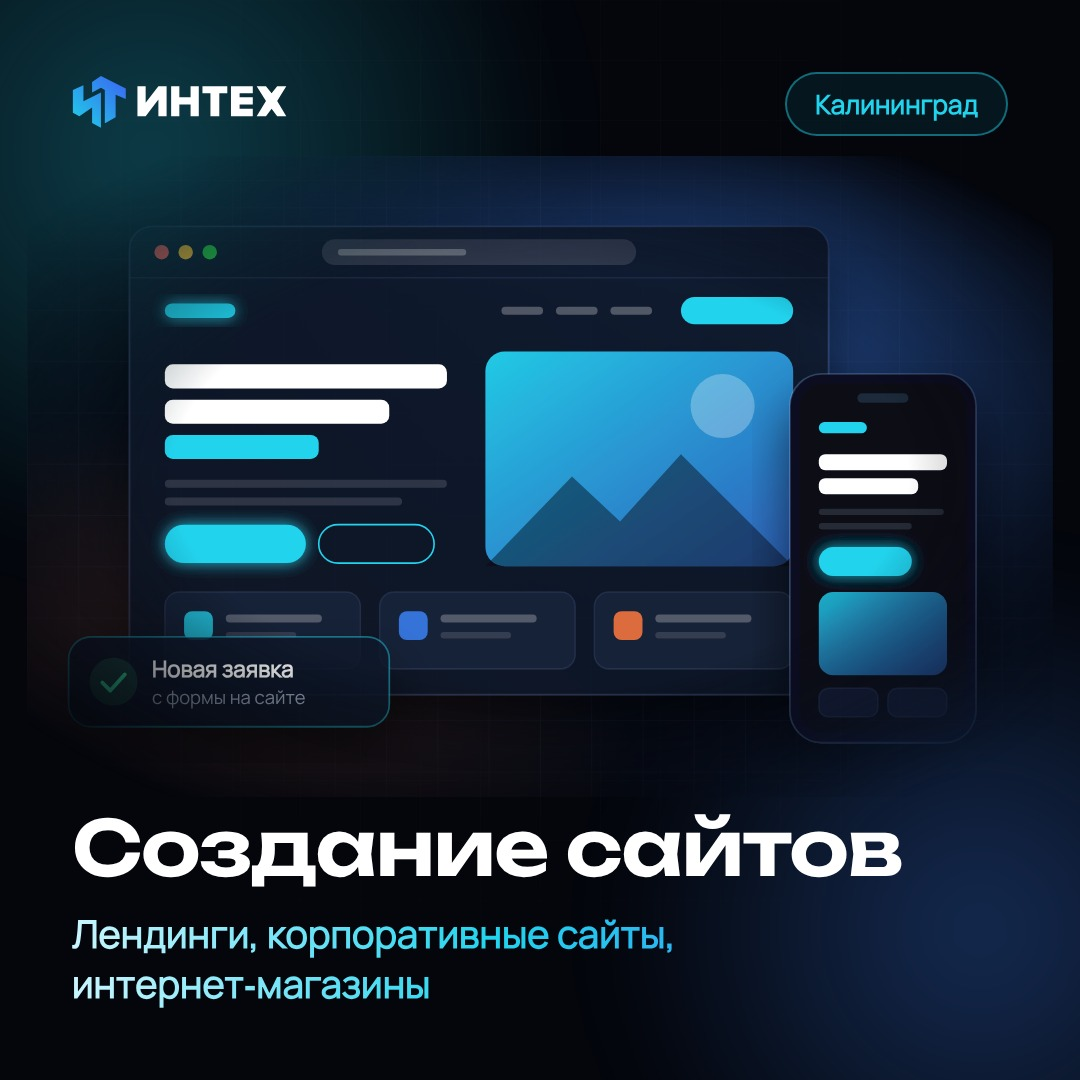
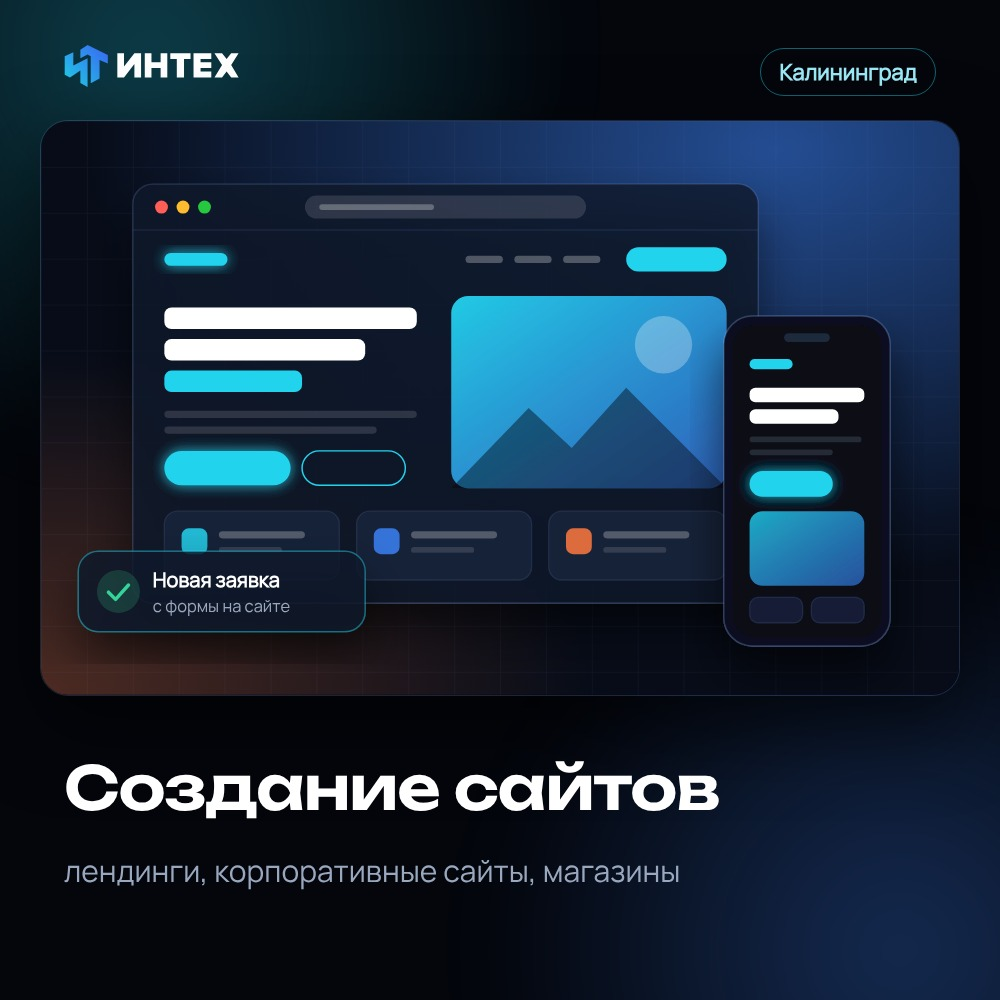
ВК: картинки для меню и услуг, обложка
Claude-Session: https://claude.ai/code/session_01L5xHoZ6zgi73QodWvRpo56

Changed region(s): [[0.031, 0.031, 0.992, 0.713], [0.062, 0.744, 0.837, 0.93]]

diff --git a/vk/shot.js b/vk/shot.js
@@ -1,0 +1,5 @@
+const { chromium } = require('playwright');
+(async () => { const b = await chromium.launch({ executablePath: '/opt/pw-browsers/chromium' });
+for (const [pre,n,w,h] of [['svc',5,1000,1000],['menu',5,752,512]]) for (let i=0;i<n;i++){
+const p = await b.newPage({viewport:{width:w,height:h}}); await p.goto('file://'+process.cwd()+'/vkshop/'+pre+'-'+i+'.html'); await p.waitForTimeout(500); await p.screenshot({path:'vkshop/out/'+pre+'-'+i+'.jpg',type:'jpeg',quality:92}); await p.close();}
+await b.close(); })();

diff --git a/vk/build.py b/vk/build.py
@@ -1,0 +1,58 @@
+import re,os,json
+T='/home/claude/intech-site/wp-content/themes/intech/assets/img/'
+src=open('vk-cover-v2.html').read()
+head=src[:src.index('</style>')]  # fonts + art css + root
+logo=re.search(r'<svg class="logo__svg".*?</svg>',src,re.S).group(0)
+def art(n,pref):
+    s=open(T+'sol-'+n+'.svg').read()
+    # make ids unique per use
+    ids=set(re.findall(r'id="([^"]+)"',s))
+    for i in ids: s=s.replace('id="%s"'%i,'id="%s%s"'%(pref,i)).replace('url(#%s)'%i,'url(#%s%s)'%(pref,i))
+    return s
+base='''*{box-sizing:border-box;margin:0}body{background:#04060C;font-family:Manrope,sans-serif;color:#fff;overflow:hidden;position:relative}
+.g{position:absolute;border-radius:50%%;filter:blur(40px)}
+.grad{background:linear-gradient(90deg,#c9f6ff,#22D3EE 45%%,#3B82F6);-webkit-background-clip:text;color:transparent}
+.logo svg{width:auto;display:block}.logo{color:#fff}
+.pic svg{width:100%%;height:auto;display:block}
+'''
+svc=[('sozdanie-saytov','web','Создание сайтов','лендинги, корпоративные сайты, магазины'),
+('prodvizhenie-saytov','seo','SEO и Яндекс Директ','продвижение в Яндексе и Google'),
+('it-autsorsing','soft','IT‑обслуживание','сисадмин на аутсорсе для офиса'),
+('servery','infra','Серверы и бэкапы','1С, терминальный сервер, резервные копии'),
+('seti','net','Сети и Wi‑Fi','локальная сеть и Wi‑Fi под ключ')]
+os.makedirs('vkshop/out',exist_ok=True)
+for k,(slug,a,t,sub) in enumerate(svc):
+    h=head+base+'''body{width:1000px;height:1000px}
+.pic{position:absolute;left:40px;right:40px;top:120px;border-radius:28px;overflow:hidden;border:1.5px solid rgba(148,178,255,.18);box-shadow:0 30px 80px rgba(0,0,0,.6)}
+.logo{position:absolute;left:64px;top:44px}.logo svg{height:44px}
+.tag{position:absolute;right:64px;top:48px;font-size:22px;font-weight:600;padding:8px 18px;border-radius:999px;border:1.5px solid rgba(34,211,238,.45);color:#9BEAF7}
+h1{position:absolute;left:64px;right:64px;top:720px;font-family:Unbounded;font-weight:600;font-size:60px;line-height:1.08;letter-spacing:-.02em}
+p{position:absolute;left:64px;right:64px;top:850px;font-size:30px;color:#9AA8BF}
+</style></head><body>
+<div class=g style="width:900px;height:900px;left:-300px;top:-400px;background:radial-gradient(circle,rgba(34,211,238,.28),transparent 65%)"></div>
+<div class=g style="width:900px;height:900px;right:-350px;bottom:-400px;background:radial-gradient(circle,rgba(59,130,246,.3),transparent 65%)"></div>
+<div class=logo>'''+logo+'''</div><div class=tag>Калининград</div>
+<div class=pic>'''+art(a,'p%d'%k)+'''</div>
+<h1>'''+t+'''</h1><p>'''+sub+'''</p></body></html>'''
+    open('vkshop/svc-%d.html'%k,'w').write(h)
+menu=[('Услуги','что мы делаем','web','https://intex.click/#services'),
+('Статьи','полезное о сайтах и IT','seo','https://intex.click/blog/'),
+('О компании','кто мы и как работаем','infra','https://intex.click/o-kompanii/'),
+('Контакты','телефон, почта, мессенджеры','net','https://intex.click/kontakty/'),
+('Оставить заявку','ответим в рабочее время','soft','https://intex.click/#contacts')]
+for k,(t,sub,a,u) in enumerate(menu):
+    h=head+base+'''body{width:752px;height:512px}
+.pic{position:absolute;right:-120px;top:-10px;width:620px;opacity:.55;-webkit-mask-image:radial-gradient(ellipse 50%% 50%% at 50%% 50%%,#000 40%%,transparent 100%%)}
+.shade{position:absolute;inset:0;background:linear-gradient(90deg,#04060C 30%,rgba(4,6,12,.2))}
+.logo{position:absolute;left:48px;top:44px}.logo svg{height:34px}
+h1{position:absolute;left:48px;right:48px;bottom:118px;font-family:Unbounded;font-weight:600;font-size:56px;line-height:1.05;letter-spacing:-.02em}
+p{position:absolute;left:48px;bottom:60px;font-size:26px;color:#9AA8BF}
+.bar{position:absolute;left:48px;bottom:36px;width:80px;height:5px;border-radius:3px;background:linear-gradient(90deg,#22D3EE,#3B82F6)}
+</style></head><body>
+<div class=g style="width:700px;height:700px;left:-250px;top:-350px;background:radial-gradient(circle,rgba(34,211,238,.3),transparent 65%)"></div>
+<div class=pic>'''+art(a,'m%d'%k)+'''</div><div class=shade></div>
+<div class=logo>'''+logo+'''</div>
+<h1>'''+t+'''</h1><p>'''+sub+'''</p><div class=bar></div></body></html>'''
+    h=h.replace('%%','%')
+    open('vkshop/menu-%d.html'%k,'w').write(h)
+json.dump({'svc':svc,'menu':menu},open('vkshop/meta.json','w'),ensure_ascii=False)
